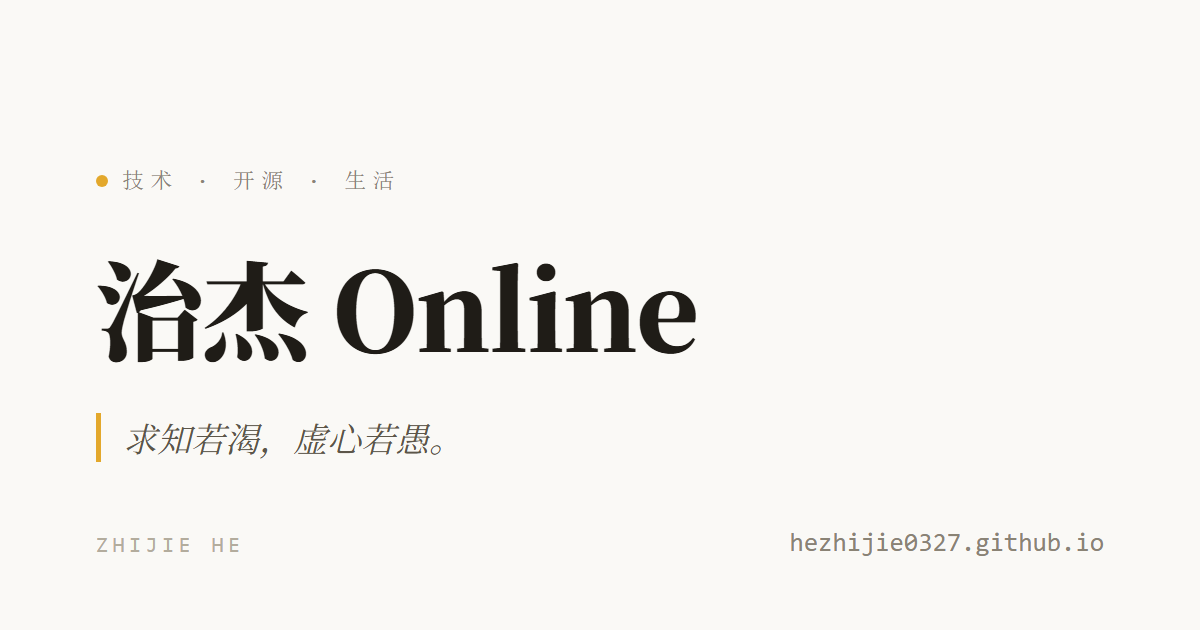
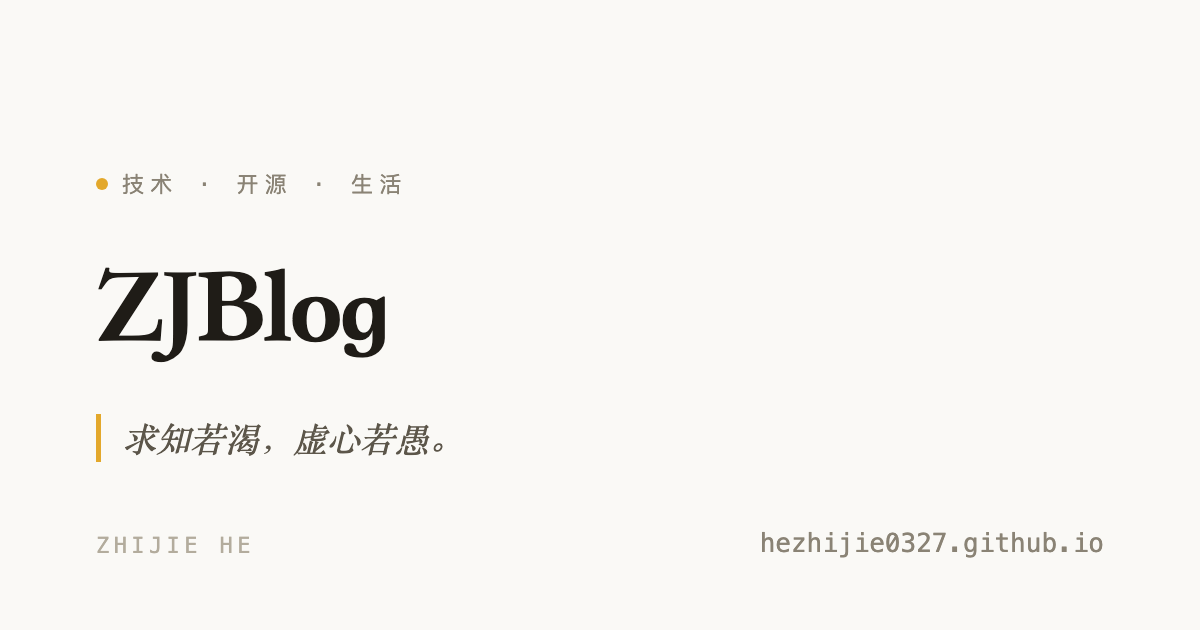
chore: rebrand default OG share card to ZJBlog
Update scripts/og-template.html title and regenerate
public/og-default.png via headless Edge screenshot (1200x630).
Author wordmark (ZHIJIE HE) and site domain unchanged.

diff --git a/scripts/og-template.html b/scripts/og-template.html
@@ -36,9 +36,9 @@
   </head>
   <body>
     <div class="kicker">技术 · 开源 · 生活</div>
-    <h1>治杰 Online</h1>
+    <h1>ZJBlog</h1>
     <p class="motto">求知若渴，虚心若愚。</p>
     <span class="brand">ZHIJIE HE</span>
-    <span class="site">hezhijie0327.github.io</span>
+    <span class="site">zhijie.online</span>
   </body>
 </html>
